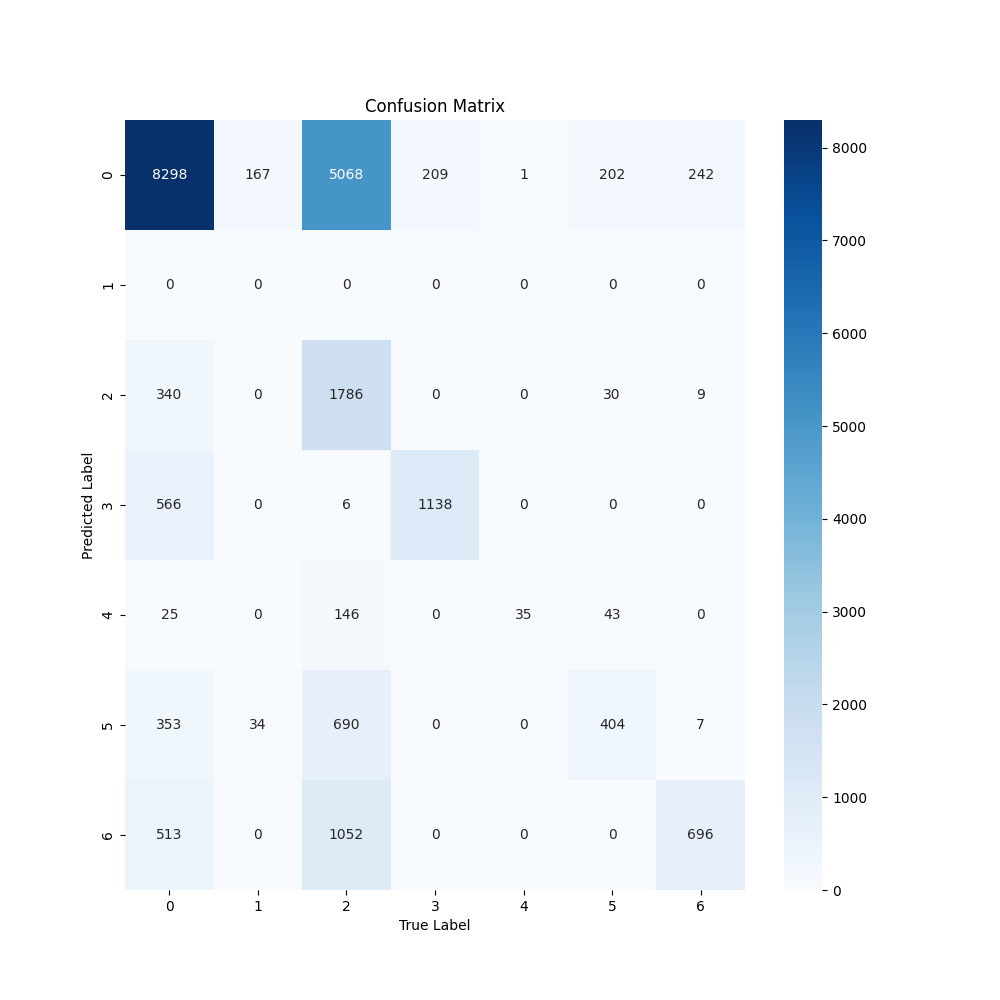
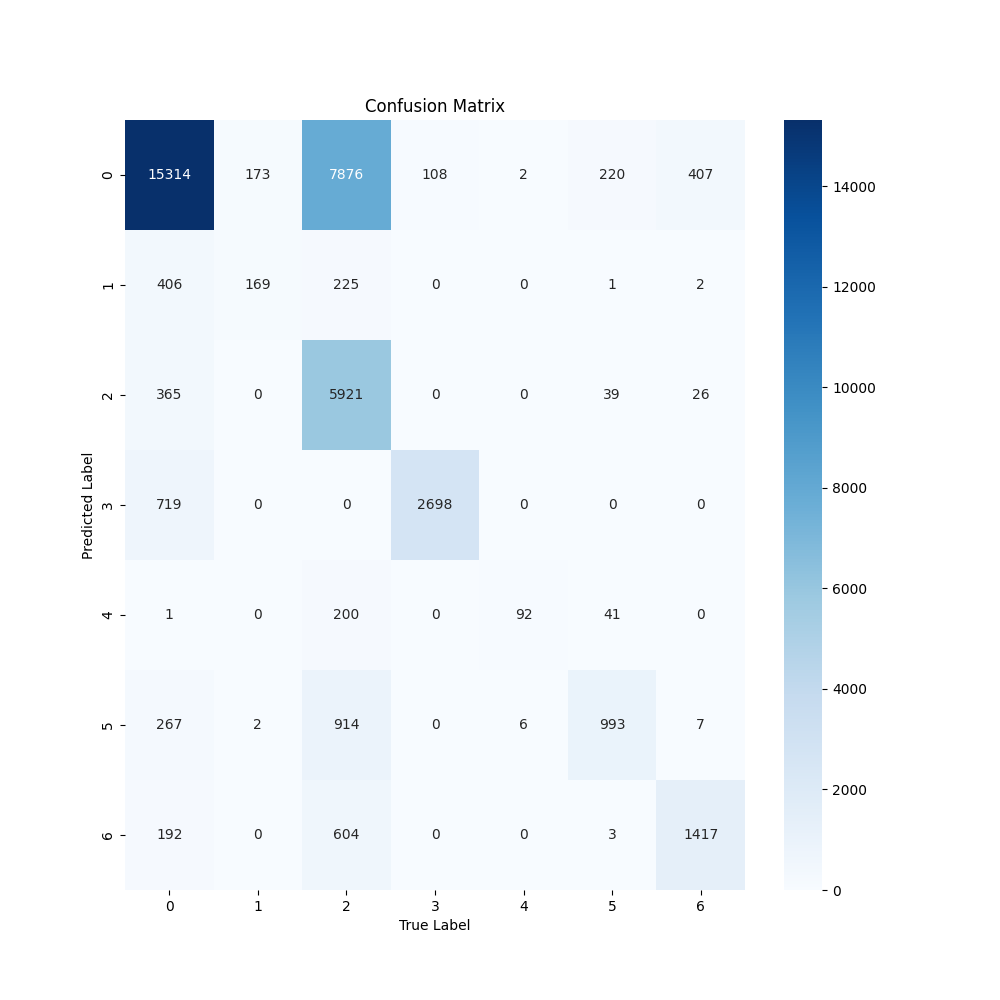
new runs outputs

diff --git a/runs.md b/runs.md
@@ -1,0 +1,44 @@
+## run-1
+### configs
+window_size_in = 50
+window_size_out = 10
+window_shift = 1
+
+batch_size = 16
+max_epochs = 5
+learning_rate = 0.001
+
+hidden_dim_1 = 64
+hidden_dim_2 = 32
+
+num_layers = 2
+
+### dataset
+Creating dataset: 866/866 [02:23]  
+Imbalanced samples: 1008203  
+Balancing dataset: 1008203/1008203 [01:03]  
+class samples: [6687, 5991, 21236, 7251, 145, 1878, 3621]  
+class weights: tensor([ 1.0000,  1.1162,  0.3149,  0.9222, 46.1172,  3.5607,  1.8467])  
+Train samples: 29957, Val samples: 7490, Test samples: 9362  
+
+### training
+Epoch [1/5], Loss: 0.9199, Val Loss: 0.6444  
+Epoch [2/5], Loss: 0.6224, Val Loss: 0.5619  
+Epoch [3/5], Loss: 0.5221, Val Loss: 0.4880  
+Epoch [4/5], Loss: 0.4717, Val Loss: 0.4694  
+Epoch [5/5], Loss: 0.4393, Val Loss: 0.4401  
+
+### results
+
+|     Class     | Precision |  Recall  | F1-Score | Support |
+|---------------|-----------|----------|----------|---------|
+|     no fe     |   0.74    |   0.85   |   0.79   |  43,770 |
+|   ctrl fail   |   0.54    |   0.65   |   0.59   |  5,087  |
+|    crit acc   |   0.95    |   0.52   |   0.67   |  29,505 |
+|   pick fail   |   0.81    |   0.94   |   0.87   |  9,217  |
+|    rel fail   |   0.23    |   0.84   |   0.36   |   100   |
+|   collision   |   0.41    |   0.89   |   0.56   |  2,057  |
+|     thrown    |   0.64    |   0.89   |   0.75   |  3,884  |
+|   Accuracy    |           |          |   0.75   |  93,620 |
+|   Macro Avg   |   0.62    |   0.80   |   0.66   |  93,620 |
+| Weighted Avg  |   0.79    |   0.75   |   0.74   |  93,620 |
